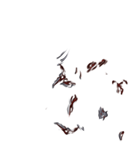
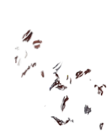
Even more Basilisk fixes
- Basilisk head, body, and injured sprites are now proportionate
  - The trick was to edit the images so that both the head and body images have the same dimensions and fit perfectly when overlayed. This way, no `left/right/top/bottom` configurations were necessary in the brush metadata
  - The injury brush needs cover both the body and head, so I combined both unpacked images into one. The sprite needs to be added after the head, so that it will be layered on top of both the body and the head
- Basilisk corpse and dead head brushes untouched and still need adjusting
- Move `actives.legend_basilisk_peck` skill out of `ai_attack_default.nut` and into `mod_ai_add_legend_skills.nut` instead (the former actually still works, but I'm moving it anyway for consistency with other legends-added skills)
- Add overlay brush for basilisk peck skill

diff --git a/make_legend_enemies.py b/make_legend_enemies.py
@@ -145,12 +145,11 @@ enemies = r"""
 <sprite id="bust_stollwurm_body_01_dead_arrows" offsetX="5" offsetY="20" f="64FB" ic="FF474C4F" width="179" height="154" img="entity\beasts\bust_stollwurm_body_01_dead_arrows.png" left="-31" right="47" top="-2" bottom="48" />
 <sprite id="bust_stollwurm_body_01_dead_javelin" offsetX="5" offsetY="20" f="64FB" ic="FF141B27" width="179" height="154" img="entity\beasts\bust_stollwurm_body_01_dead_javelin.png" left="-55" right="41" top="13" bottom="75" />
 
-<sprite id="basilisk_drone_01" offsetX="-2" offsetY="45" ic="FF24554E" width="104" height="142" img="entity\beasts\basilisk_drone_01.png" left="-78" right="47" top="-69" bottom="71" />
+<sprite id="basilisk_drone_01" offsetX="-15" offsetY="45" ic="FF24554E" width="104" height="142" img="entity\beasts\basilisk_drone_01.png" />
+<sprite id="basilisk_drone_head_01" offsetX="-15" offsetY="45" ic="FF315B61" width="104" height="142" img="entity\beasts\basilisk_drone_head_01.png" />
+<sprite id="basilisk_drone_01_injured" offsetX="-15" offsetY="45" ic="FF5E9C89" width="104" height="142" img="entity\beasts\basilisk_drone_01_injured.png" />
 <sprite id="basilisk_drone_01_dead" offsetX="5" offsetY="20" f="64FF" ic="FF295850" width="179" height="154" img="entity\beasts\basilisk_drone_01_dead.png" left="-74" right="76" top="-50" bottom="48" />
-<sprite id="basilisk_drone_01_injured" offsetX="-2" offsetY="45" ic="FF5E9C89" width="104" height="142" img="entity\beasts\basilisk_drone_01_injured.png" left="-48" right="44" top="-55" bottom="69" />
-<sprite id="basilisk_drone_head_01" offsetX="-2" offsetY="45" ic="FF315B61" width="104" height="142" img="entity\beasts\basilisk_drone_head_01.png" left="4" right="76" top="-62" bottom="8" />
 <sprite id="basilisk_drone_head_01_dead" offsetX="5" offsetY="20" f="64F6" f1="-5" f2="-25" ic="FF315E5F" width="179" height="154" img="entity\beasts\basilisk_drone_head_01_dead.png" left="-70" right="30" top="-47" bottom="11" />
-<sprite id="basilisk_drone_01_injured_head" offsetX="5" offsetY="20" f="64F6" f1="-5" f2="-25" ic="FF315E5F" width="179" height="154" img="entity\beasts\basilisk_drone_01_injured_head.png" left="-70" right="30" top="-47" bottom="11" />
 <sprite id="basilisk_drone_01_dead_arrows" offsetX="5" offsetY="20" f="64FB" ic="FF474C4F" width="179" height="154" img="entity\beasts\bear_01_dead_arrows.png" left="-31" right="47" top="-2" bottom="48" />
 <sprite id="basilisk_drone_01_dead_javelin" offsetX="5" offsetY="20" f="64FB" ic="FF141B27" width="179" height="154" img="entity\beasts\bear_01_dead_javelin.png" left="-55" right="41" top="13" bottom="75" />
 
